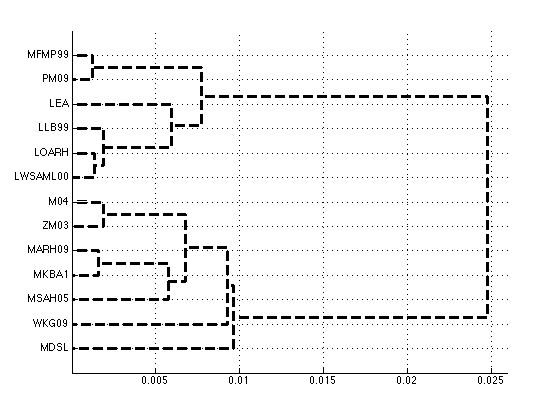
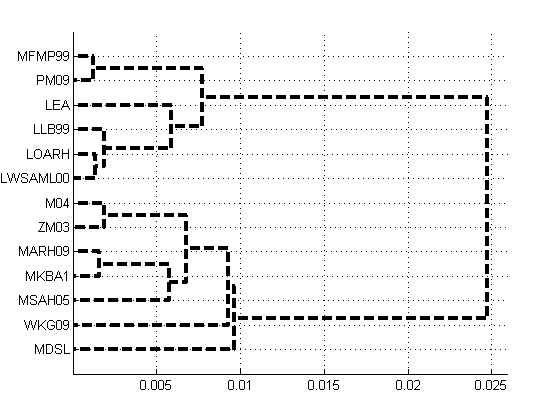
Feature Identification Report

diff --git a/_posts/2014-05-15-Feature-Identifaction-in-Molecular-Dynamics-Potential-Comparisons.html b/_posts/2014-05-15-Feature-Identifaction-in-Molecular-Dynamics-Potential-Comparisons.html
@@ -1,3 +1,8 @@
+---
+layout: report
+title: Feature Identifaction in Molecular Dynamics Potential Comparisons
+
+---
 
 <!DOCTYPE html
   PUBLIC "-//W3C//DTD HTML 4.01 Transitional//EN">
@@ -9,9 +14,9 @@ To make changes, update the MATLAB code and republish this document.
       --><title>Principal Component Analysis of Spatial Statistics in Molecular Dynamics Simulations</title><meta name="generator" content="MATLAB 8.1"><link rel="schema.DC" href="http://purl.org/dc/elements/1.1/"><meta name="DC.date" content="2014-05-15"><meta name="DC.source" content="Data_Analytics_Molecular_Dynamics.m"><style type="text/css">
 html,body,div,span,applet,object,iframe,h1,h2,h3,h4,h5,h6,p,blockquote,pre,a,abbr,acronym,address,big,cite,code,del,dfn,em,font,img,ins,kbd,q,s,samp,small,strike,strong,sub,sup,tt,var,b,u,i,center,dl,dt,dd,ol,ul,li,fieldset,form,label,legend,table,caption,tbody,tfoot,thead,tr,th,td{margin:0;padding:0;border:0;outline:0;font-size:100%;vertical-align:baseline;background:transparent}body{line-height:1}ol,ul{list-style:none}blockquote,q{quotes:none}blockquote:before,blockquote:after,q:before,q:after{content:'';content:none}:focus{outine:0}ins{text-decoration:none}del{text-decoration:line-through}table{border-collapse:collapse;border-spacing:0}
 
-html { min-height:100%; margin-bottom:1px; }
-html body { height:100%; margin:0px; font-family:Arial, Helvetica, sans-serif; font-size:10px; color:#000; line-height:140%; background:#fff none; overflow-y:scroll; }
-html body td { vertical-align:top; text-align:left; }
+
+
+
 
 h1 { padding:0px; margin:0px 0px 25px; font-family:Arial, Helvetica, sans-serif; font-size:1.5em; color:#d55000; line-height:100%; font-weight:normal; }
 h2 { padding:0px; margin:0px 0px 8px; font-family:Arial, Helvetica, sans-serif; font-size:1.2em; color:#000; font-weight:bold; line-height:140%; border-bottom:1px solid #d6d4d4; display:block; }
@@ -36,7 +41,7 @@ ol li ol li { list-style-type:lower-alpha; }
 ol li ul { padding-top:7px; }
 ol li ul li { list-style:square; }
 
-.content { font-size:1.2em; line-height:140%; padding: 20px; }
+.content { font-size:1.2em; line-height:140%; padding: 0px; }
 
 pre, tt, code { font-size:12px; }
 pre { margin:0px 0px 20px; }

diff --git a/Data_Analytics_Molecular_Dynamics.m b/Data_Analytics_Molecular_Dynamics.m
@@ -1,12 +1,26 @@
 %% Principal Component Analysis of Spatial Statistics in Molecular Dynamics Simulations
 % This script uses spatial statistics calculations of molecular dyanmics
 % simulations to Verify and Validate Molecular Potentials in the
-% <www.ctcms.nist.gov/potentials/Al.html NIST potentials repo>
-% .
+% <www.ctcms.nist.gov/potentials/Al.html NIST potentials repo> that is
+% overseen by 
+% <http://www.nist.gov/mml/msed/thermodynamics_kinetics/chandler_becker.cfm Chandler Becker>
+% who is a molecular dynamics guru in the Materials Measurement Lab.
 
 %%% Workflow
 %
-% # Load shared data.
+% # *Snag some externals codes* - Download Mark Tygert's randomized PCA
+% algorithm if you ain't got it yet.
+% # *Load shared data* - Dataset pages are being for some datasets while
+% the information is being loaded in.
+% # *Feature Indentification* - This step preps the shared data for use in
+% a data analytics scenario.
+% # *Preprocess Data Matrix* - Each row is a feature identifier in the data
+% matrix.  eg. normalize features, remove rows, remove columns.
+% # *Principal Component Analysis* - Apply principal components analysis to
+% the data matrix.  
+% # *Visualization* - Visualize the results. e.g. visualize embedding,
+% embedding statistics, other data fields.
+% # *Iterate* - Design a new experiment from what you have learned.
 
 %%% Repo Functions used
 %
@@ -58,28 +72,38 @@ addpath('./pca');
 %
 % It is cool to note that there is very little change in syntax between the
 % appraoches.
-         if mod(ii-1,4) == 0
+         if false;mod(ii-1,4) == 0
              % publish
              output = matinpublish( @Load2Matlab, sprintf('%s%s%s', data_dir, filesep, ff(ii).name), 'title', out.name );
          else
              % don't publish
+             param = struct( 'isplot',false,'todir','.');
              output = Load2Matlab( sprintf('%s%s%s', data_dir, filesep, ff(ii).name ),param );
          end
          close all;
 %% Material Feature Indentification
 % The feature indentification process preps the materials information to be
-% digested by data analytics.  The Data matrix (_feature_ variable) is an 
+% digested by data analytics.  The Data matrix <_feature_> is an 
 % _N x D_ array where N indexes each datapoint and D indexes the features
 % that each column represents.  
 %
 % In this application, each datapoint ( or row ) is identified by a Energy
-% Potential Acronym (_output.tags{1}_) and the Step(_output.Step_) in the simulation that
+% Potential Acronym <_output.tags{1}_> and the Step<_output.Step_> in the simulation that
 % the datapoint was recorded for .  The set { _output.tags{1}_,
-% _output.Step_ } uniquely map to an index for each row.
+% _output.Step_(end) } uniquely map to an index for each row.
 %
 % The columns correspond to vectors in the spatial statistics.  The vector
-% distance are exported by the CreateFeature function; _feature.columns_ are the vector distances in the Pair Correlation
-% that were extracted previously.  
+% distance are exported by the CreateFeature function; <_feature.columns_> are the vector distances in the Pair Correlation
+% that were extracted previously. 
+% 
+% Originally, the spatial statistics were sampled on a non-uniform grid.
+% <_CreateFeature_> interpolates the spatial statistics onto an even grid
+% up to a predefined cutoff length.  *This will be in a future report:* _The cutoff length inside the function
+% can be a hyper parameter in the statistics. _ 
+%
+% Please see the 
+% Create feature
+% report for more information.
 %
 % _feature.cut_ has a hyperparameter of the cutoff distance which can be
 % modulated in the function _CreateFeature_.
@@ -89,6 +113,14 @@ addpath('./pca');
  end
  
  %% Create Data Matrix
+ % The data matrix is an <_NxD_> matrix where each columns corresponds to
+ % fields the vector distances defined in <_feature.columns_>.  The rows
+ % are blocks of invidual atomic potential types and within each block are
+ % different timesteps from the simulation.
+ %
+ % Each row is a row vector of an N-D array of the interpolated spatial
+ % statistics onto an even grid.
+
  
  % Transform labels to an array
  class = [ feature(:).label ];
@@ -111,7 +143,8 @@ addpath('./pca');
  % Remove bad features and selectively remove training data here.
 % Remove classes from the analysis
 ignoreclass = {'ZJW04','SBFT12','MMP02'}
-
+plotclass = setdiff({class{classindex}},ignoreclass);
+[~,reindex] = ismember( class(br), plotclass );
 % Remove null columns
 br = ~ismember( class, ignoreclass );
 
@@ -134,6 +167,12 @@ b = any( DM(br,:) ~= 0,1 );
 [ U S V ] = pca( DMBIAS );
 W =U*S;
 
+%%% Compute centroids
+% They carry the relative distance between the potential clusters.
+centroids = zeros( numel( plotclass), size( W,2) );
+for ii = 1 : size(W,2)
+    centroids(:,ii) = accumarray( reindex(:), W( :,ii),[],@mean);
+end
 
 %%% Principal Component Embedding
 
@@ -170,15 +209,6 @@ figure(gcf);
 % A dendrogram of the centroids of each potential in PCA embedding.  The
 % relative distnace of the potentials indicates a measure of similarity and
 % dissimilarity between the models.
-
-
-%%% Compute centroids
-plotclass = setdiff({class{classindex}},ignoreclass);
-[~,reindex] = ismember( class(br), plotclass );
-centroids = zeros( numel( plotclass), size( W,2) );
-for ii = 1 : size(W,2)
-    centroids(:,ii) = accumarray( reindex(:), W( :,ii),[],@mean);
-end
 
 %%% Plot dendrogram
 distance = pdist( centroids );
